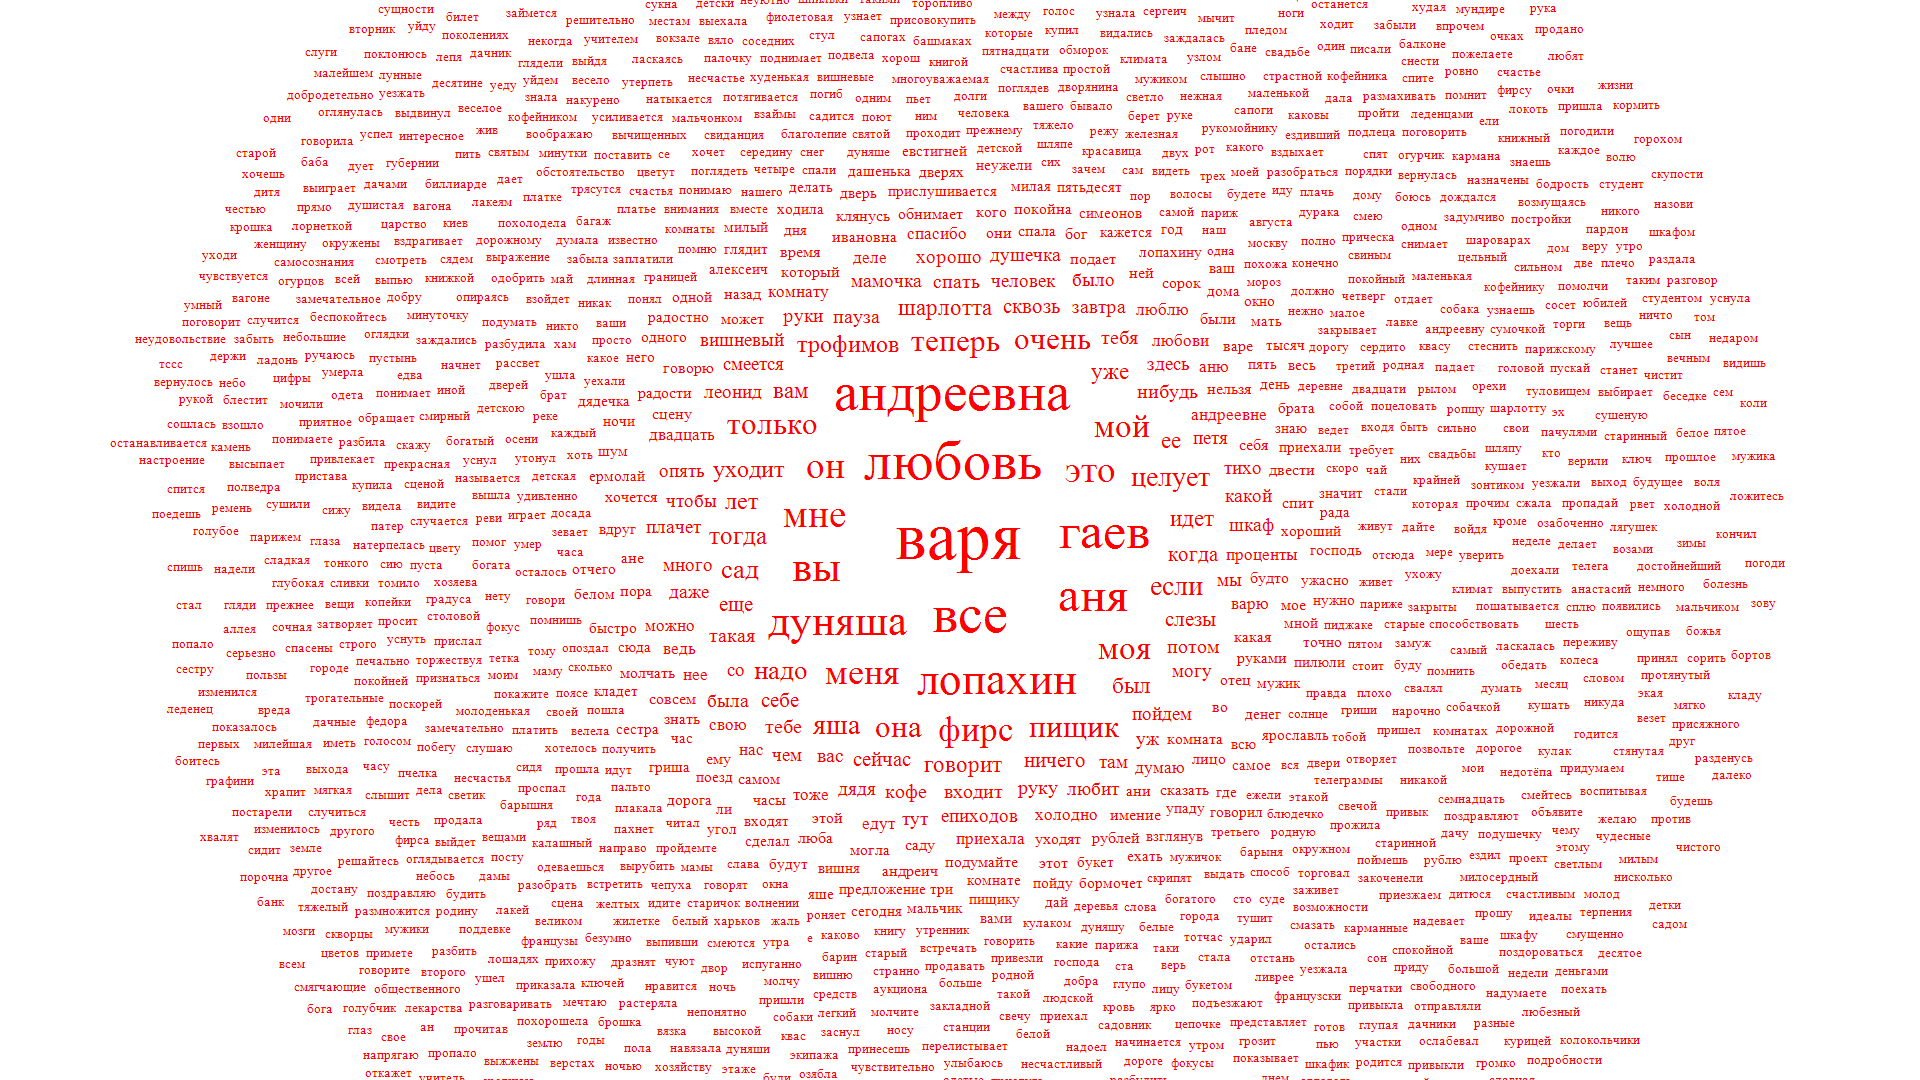
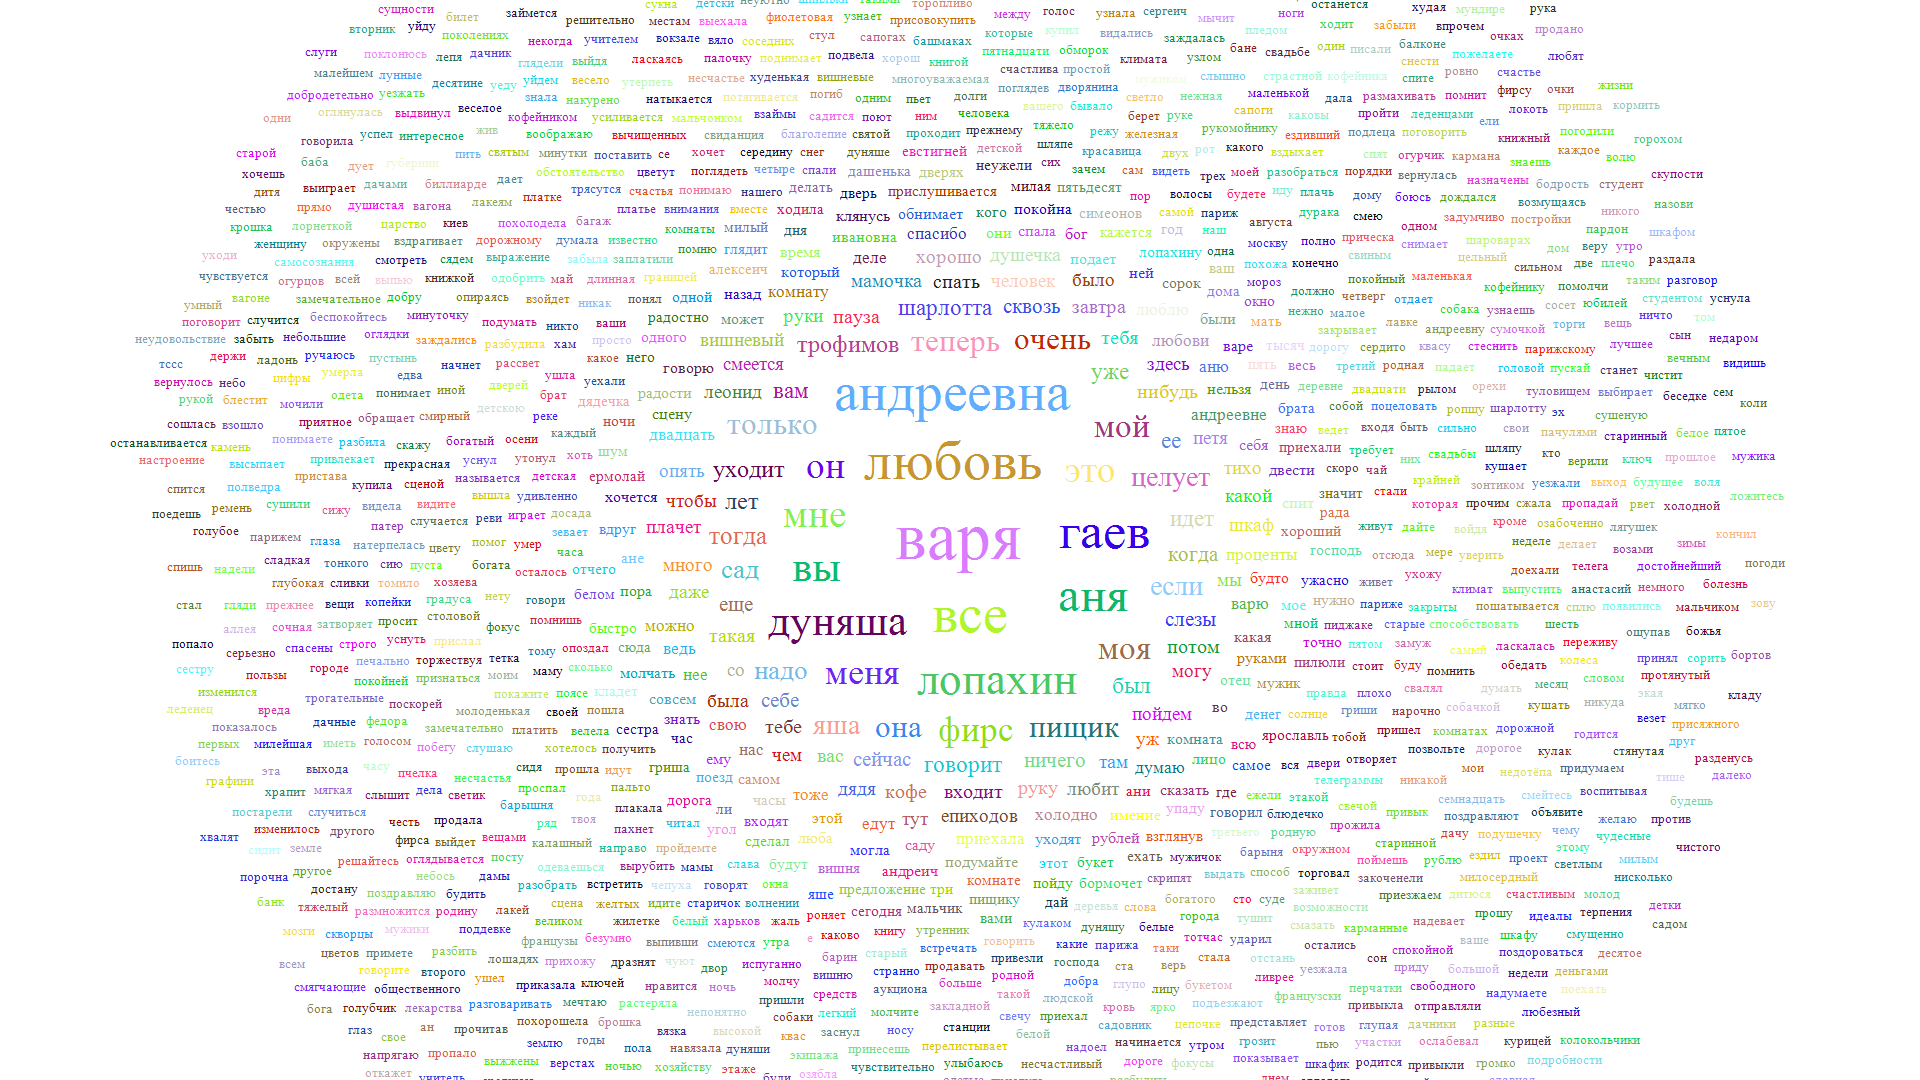
Убраны switch, которые можно было заменить с помощью полиморфизма

Changed region(s): [[0.0625, 0.0, 0.9375, 1.0], [0.4688, 0.4889, 0.5312, 0.5194]]

diff --git a/TagsCloudVisualizationTests/FileReaderTests/FileReaderTests.cs b/TagsCloudVisualizationTests/FileReaderTests/FileReaderTests.cs
@@ -7,49 +7,44 @@ namespace TagsCloudVisualizationTests.FileReaderTests;
 [TestFixture]
 public class FileReaderTests
 {
-    private IFileReaderFactory factory;
-
-    [SetUp]
-    public void SetUp()
-    {
-        factory = new FileReaderFactory();
-    }
+    private IFileReader[] readers = new IFileReader[] {new DocReader(), new DocxReader(), new TxtReader()};
 
     [Test]
     public void ReadText_FileNotExist_ThrowFileNotFoundException()
     {
-        var action = () => factory.Create(@"..\..\..\FileReaderData\NotExistFile.txt");
+        var reader = GetReader(@"..\..\..\FileReaderData\NotExistFile.txt");
+        var action = () => reader.ReadText(@"..\..\..\FileReaderData\NotExistFile.txt");
         action.Should().Throw<FileNotFoundException>();
     }
 
     [Test]
     public void ReadText_ExtensionNotSupported_ThrowArgumentException()
     {
-        var action = () => factory.Create(@"..\..\..\FileReaderData\NotSupportedExtension.pdf");
+        var action = () => GetReader(@"..\..\..\FileReaderData\NotSupportedExtension.pdf");
         action.Should().Throw<ArgumentException>();
     }
 
     [Test]
     public void ReadText_TxtFile_ReturnTextInFile()
     {
-        var reader = factory.Create(@"..\..\..\FileReaderData\TxtFile.txt");
-        var result = reader.ReadText();
+        var reader = GetReader(@"..\..\..\FileReaderData\TxtFile.txt");
+        var result = reader.ReadText(@"..\..\..\FileReaderData\TxtFile.txt");
         result.Should().Be("txt\r\nfile\r\ndata");
     }
 
     [Test]
     public void ReadText_DocFile_ReturnsTextInFile()
     {
-        var reader = factory.Create(@"..\..\..\FileReaderData\DocFile.doc");
-        var result = reader.ReadText();
+        var reader = GetReader(@"..\..\..\FileReaderData\DocFile.doc");
+        var result = reader.ReadText(@"..\..\..\FileReaderData\DocFile.doc");
         result.Should().Be("doc file data");
     }
 
     [Test]
     public void ReadText_DocxFile_ReturnsTextInFile()
     {
-        var reader = factory.Create(@"..\..\..\FileReaderData\DocxFile.docx");
-        var result = reader.ReadText();
+        var reader = GetReader(@"..\..\..\FileReaderData\DocxFile.docx");
+        var result = reader.ReadText(@"..\..\..\FileReaderData\DocxFile.docx");
         result.Should().Be("docx file data");
     }
 
@@ -58,8 +53,16 @@ public class FileReaderTests
     [TestCase("Empty.doc", "", TestName = "empty doc file")]
     public void ReadText_EmptyTxtFile_ReturnsEmptyStringOrSpecialSymbol(string fileName, string exceptedResult)
     {
-        var reader = factory.Create($@"..\..\..\FileReaderData\{fileName}");
-        var result = reader.ReadText();
+        var reader = GetReader($@"..\..\..\FileReaderData\{fileName}");
+        var result = reader.ReadText($@"..\..\..\FileReaderData\{fileName}");
         result.Should().Be(exceptedResult);
+    }
+
+    private IFileReader GetReader(string path)
+    {
+        var reader = readers.Where(r => r.CanRead(path)).FirstOrDefault();
+        return reader is null
+            ? throw new ArgumentException($"Can't read file with path {path}")
+            : reader;
     }
 }

diff --git a/TagsCloudVisualization/TextHandlers/TextHandler.cs b/TagsCloudVisualization/TextHandlers/TextHandler.cs
@@ -8,13 +8,15 @@ public class TextHandler : ITextHandler
 {
     private readonly IEnumerable<string> words;
     private readonly HashSet<string> boringWords;
+    private readonly IFileReader[] readers;
 
-    public TextHandler(IFileReaderFactory factory, TextHandlerSettings settings)
+    public TextHandler(IFileReader[] readers, TextHandlerSettings settings)
     {
-        var wordsReader = factory.Create(settings.PathToText);
-        var boringWordsReader = factory.Create(settings.PathToBoringWords);
-        words = GetWords(wordsReader.ReadText());
-        boringWords = GetWords(boringWordsReader.ReadText().ToLower()).ToHashSet();
+        this.readers = readers;
+        var wordsReader = GetReader(settings.PathToText);
+        var boringWordsReader = GetReader(settings.PathToBoringWords);
+        words = GetWords(wordsReader.ReadText(settings.PathToText));
+        boringWords = GetWords(boringWordsReader.ReadText(settings.PathToBoringWords).ToLower()).ToHashSet();
     }
 
     public TextHandler(string text, string boringWords)
@@ -45,5 +47,13 @@ public class TextHandler : ITextHandler
 
         foreach (var word in pattern.Matches(boringWords).ToHashSet())
             yield return word.Value;
+    }
+
+    public IFileReader GetReader(string path)
+    {
+        var reader = readers.Where(r => r.CanRead(path)).FirstOrDefault();
+        return reader is null 
+            ? throw new ArgumentException($"Can't read file with path {path}") 
+            : reader;
     }
 }

diff --git a/TagsCloudVisualization/Visualizers/Visualizer.cs b/TagsCloudVisualization/Visualizers/Visualizer.cs
@@ -9,12 +9,12 @@ public class Visualizer : IVisualizer
 {
     private readonly ImageSettings imageSettings;
     private readonly BackgroundSettings backgroundSettings;
-    private readonly IColorGenerator colorGenerator;
+    private readonly IColorGenerator[] colorGenerators;
 
-    public Visualizer(ImageSettings imageSettings, BackgroundSettings backgroundSettings, IColorGeneratorFactory factory)
+    public Visualizer(ImageSettings imageSettings, BackgroundSettings backgroundSettings, IColorGenerator[] generators)
     {
         this.imageSettings = imageSettings;
-        colorGenerator = factory.Create();
+        colorGenerators = generators;
         this.backgroundSettings = backgroundSettings;
     }
 
@@ -28,9 +28,17 @@ public class Visualizer : IVisualizer
         {
             graphics.DrawString(tag.Content, 
                 new Font(tag.Font, tag.Size), 
-                new SolidBrush(colorGenerator.GetColor()), 
+                new SolidBrush(GetColorIfMatch()), 
                 tag.Rectangle);
         }
         return bitmap;
+    }
+
+    public Color GetColorIfMatch()
+    {
+        var generator = colorGenerators.Where(g => g.Match()).FirstOrDefault();
+        return generator is null 
+            ? throw new ArgumentException("Can't find color") 
+            : generator.GetColor();
     }
 }

diff --git a/TagsCloudVisualization/ColorGenerators/DefaultColorGenerator.cs b/TagsCloudVisualization/ColorGenerators/DefaultColorGenerator.cs
@@ -1,14 +1,16 @@
 using System.Drawing;
+using TagsCloudVisualization.Settings;
 
 namespace TagsCloudVisualization.ColorGenerators;
 
 public class DefaultColorGenerator : IColorGenerator
 {
     private readonly Color color;
+    private readonly bool isMatch;
 
-    public DefaultColorGenerator(string color)
+    public DefaultColorGenerator(ColorGeneratorSettings settings)
     {
-        this.color = GetColorFromString(color);
+        isMatch = TryGetColorFromString(settings.Color, out color);
     }
 
     public Color GetColor()
@@ -16,15 +18,22 @@ public class DefaultColorGenerator : IColorGenerator
         return color;
     }
 
-    public Color GetColorFromString(string color)
+    public bool TryGetColorFromString(string color, out Color resultColor)
     {
+        resultColor = Color.Black;
         try
         {
-            return Color.FromName(color);
+            resultColor = Color.FromName(color);
+            return true;
         }
         catch
         {
-            throw new ArgumentException($"Color with name {color} doesn't supported");
+            return false;
         }
+    }
+
+    public bool Match()
+    {
+        return isMatch;
     }
 }

diff --git a/TagsCloudVisualization/DiContainerBuilder.cs b/TagsCloudVisualization/DiContainerBuilder.cs
@@ -61,8 +61,11 @@ public static class DiContainerBuilder
 
         builder.RegisterType<CircularCloudLayouter>().As<ICloudLayouter>();
         builder.RegisterType<TagsLayouter>().As<ITagLayouter>();
-        builder.RegisterType<ColorGeneratorFactory>().As<IColorGeneratorFactory>();
-        builder.RegisterType<FileReaderFactory>().As<IFileReaderFactory>();
+        builder.RegisterType<RandomColorGenerator>().As<IColorGenerator>();
+        builder.RegisterType<DefaultColorGenerator>().As<IColorGenerator>();
+        builder.RegisterType<TxtReader>().As<IFileReader>();
+        builder.RegisterType<DocReader>().As<IFileReader>();
+        builder.RegisterType<DocxReader>().As<IFileReader>();
         builder.RegisterType<ImageSaver>().As<IImageSaver>();
         builder.RegisterType<Spiral>().As<IPointCreator>();
         builder.RegisterType<TextHandler>().As<ITextHandler>();

diff --git a/TagsCloudVisualization/ColorGenerators/RandomColorGenerator.cs b/TagsCloudVisualization/ColorGenerators/RandomColorGenerator.cs
@@ -1,18 +1,26 @@
 using System.Drawing;
+using TagsCloudVisualization.Settings;
 
 namespace TagsCloudVisualization.ColorGenerators;
 
 public class RandomColorGenerator : IColorGenerator
 {
     private readonly Random random;
+    private readonly bool isMatch;
 
-    public RandomColorGenerator()
+    public RandomColorGenerator(ColorGeneratorSettings settings)
     {
         random = new Random((int)DateTime.Now.Ticks);
+        isMatch = settings.Color == "random";
     }
 
     public Color GetColor()
     {
         return Color.FromArgb(random.Next(255), random.Next(255), random.Next(255));
+    }
+
+    public bool Match()
+    {
+        return isMatch;
     }
 }

diff --git a/TagsCloudVisualization/FileReaders/DocReader.cs b/TagsCloudVisualization/FileReaders/DocReader.cs
@@ -1,17 +1,16 @@
 using Spire.Doc;
+using TagsCloudVisualization.Settings;
 
 namespace TagsCloudVisualization.FileReaders;
 
 public class DocReader : IFileReader
 {
-    private readonly string path;
-
-    public DocReader(string path)
+    public bool CanRead(string path)
     {
-        this.path = path;
+        return path.Split('.')[^1] == "doc";
     }
 
-    public string ReadText()
+    public string ReadText(string path)
     {
         var doc = new Document();
         doc.LoadFromFile(path);

diff --git a/TagsCloudVisualization/FileReaders/DocxReader.cs b/TagsCloudVisualization/FileReaders/DocxReader.cs
@@ -4,14 +4,12 @@ namespace TagsCloudVisualization.FileReaders;
 
 public class DocxReader : IFileReader
 {
-    private readonly string path;
-
-    public DocxReader(string path)
+    public bool CanRead(string path)
     {
-        this.path = path;
+        return path.Split('.')[^1] == "docx";
     }
 
-    public string ReadText()
+    public string ReadText(string path)
     {
         var doc = DocX.Load(path);
         return string.Join(" ", doc.Paragraphs.Select(p => p.Text));

diff --git a/TagsCloudVisualization/FileReaders/TxtReader.cs b/TagsCloudVisualization/FileReaders/TxtReader.cs
@@ -2,14 +2,12 @@
 
 public class TxtReader : IFileReader
 {
-    private readonly string path;
-
-    public TxtReader(string path)
+    public bool CanRead(string path)
     {
-        this.path = path;
+        return path.Split('.')[^1] == "txt";
     }
 
-    public string ReadText()
+    public string ReadText(string path)
     {
         return File.ReadAllText(path);
     }

diff --git a/TagsCloudVisualization/ColorGenerators/IColorGenerator.cs b/TagsCloudVisualization/ColorGenerators/IColorGenerator.cs
@@ -4,5 +4,6 @@ namespace TagsCloudVisualization.ColorGenerators;
 
 public interface IColorGenerator
 {
+    bool Match();
     Color GetColor();
 }

diff --git a/TagsCloudVisualization/FileReaders/IFileReader.cs b/TagsCloudVisualization/FileReaders/IFileReader.cs
@@ -2,5 +2,6 @@
 
 public interface IFileReader
 {
-    string ReadText();
+    bool CanRead(string path);
+    string ReadText(string path);
 }
